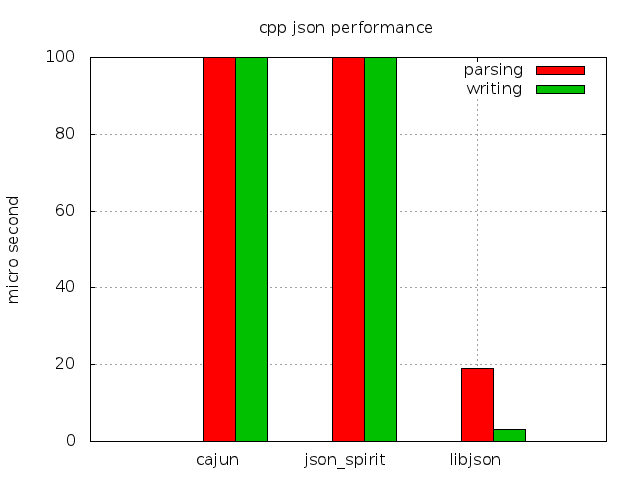
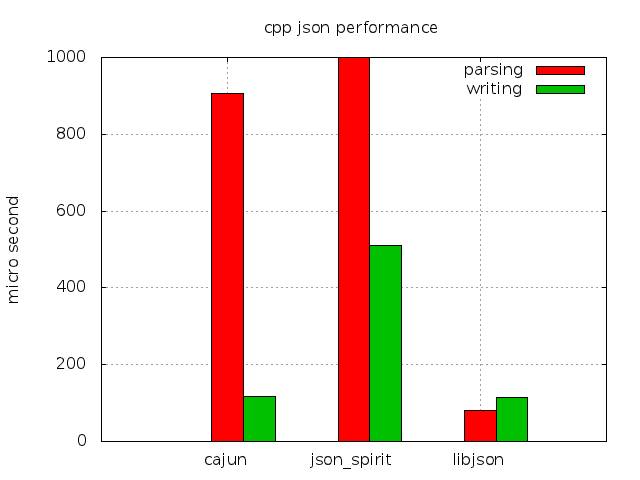
Updated the results with correct libjson flag

diff --git a/libs/libjson/libjson/JSONOptions.h b/libs/libjson/libjson/JSONOptions.h
@@ -61,7 +61,7 @@
  *  this would be a client application communicating with a server if the server
  *  returns things like last modified date and other things that you don't use.
  */
-//#define JSON_PREPARSE
+#define JSON_PREPARSE
 
 
 /*
